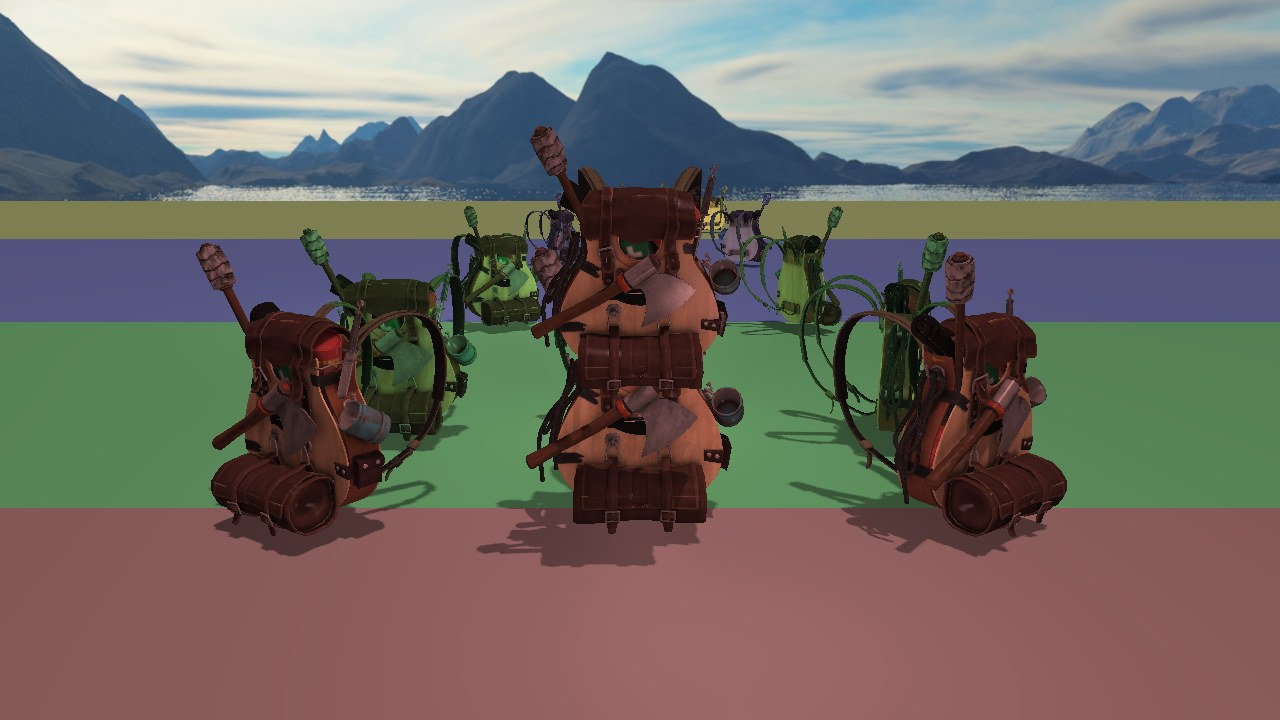
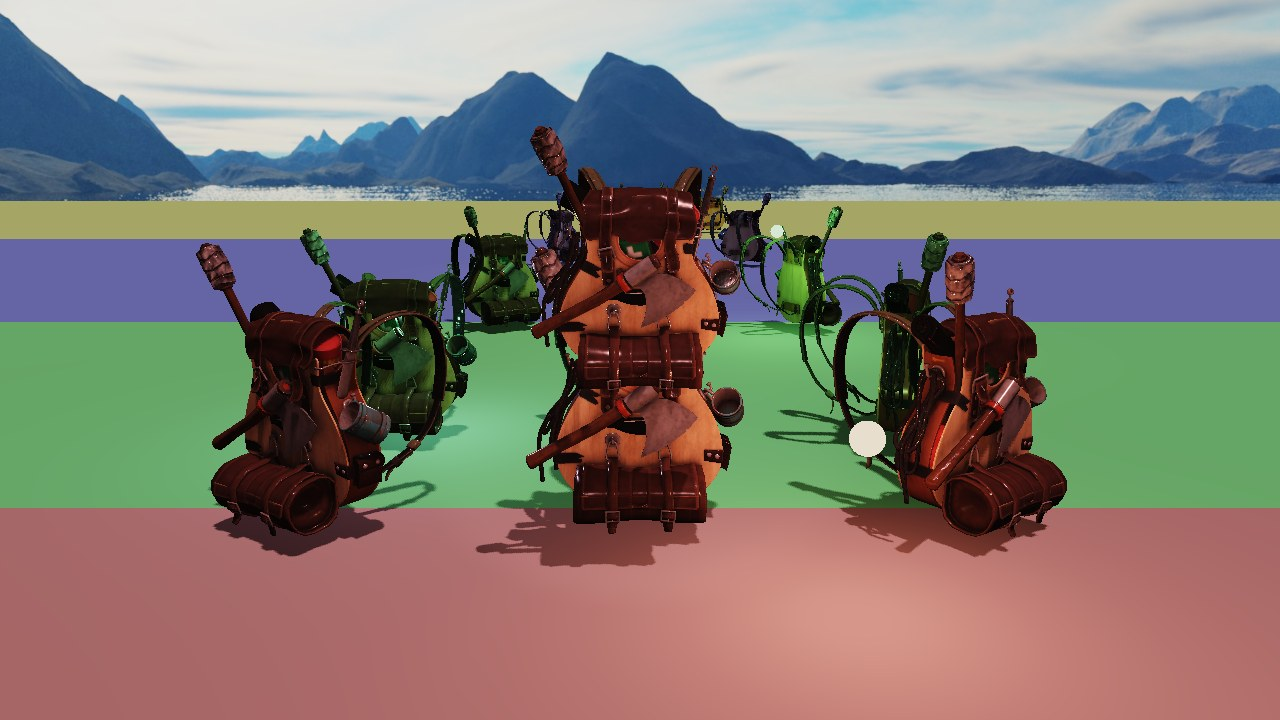
Added notes on physically based shading and new screenshots.

diff --git a/docs/pbr.md b/docs/pbr.md
@@ -1,0 +1,144 @@
+# Physically based shading
+
+How surfaces are lit: the metallic-roughness material model, the BRDF, the
+conversion of older formats, and tone mapping.
+
+Code: `src/rendering/Material.*`, `res/shaders/common/brdf.glsl`,
+`forward_shader.frag`, `ResourceManager::loadMaterial` and `screen.frag`.
+
+## 1. Why change from Blinn-Phong
+
+Blinn-Phong has a diffuse color, a specular color and a shininess exponent,
+three knobs with no physical meaning. Nothing stops a surface from reflecting
+more light than it receives, and a material tuned under one light looks wrong
+under another.
+
+Physically based shading describes what the surface *is* rather than how it
+should look, and derives the look from a model of light reflection that
+conserves energy. The same material then behaves correctly under the sun, a
+torch or a dim ambient. It is also the model used by every modern asset
+format and tool (glTF, Substance, Blender, game engines), so assets come in
+with the right parameters.
+
+## 2. The material: metallic-roughness
+
+The glTF 2.0 model, stored in `Material`:
+
+| Parameter | Meaning | Map |
+|---|---|---|
+| albedo | Base color: diffuse color of dielectrics, reflection tint of metals | sRGB RGB, alpha for cut-outs |
+| metallic | 0 for dielectrics (wood, stone, cloth, paint), 1 for bare metal | B channel of the packed map |
+| roughness | 0 is a mirror, 1 is fully blurry reflections | G channel of the packed map |
+| normal | Surface detail | tangent space normal map |
+| occlusion | Crevices that ambient light does not reach | R channel |
+| emissive | Light the surface emits on its own | sRGB RGB |
+
+Each map is multiplied by a factor, and a missing map is a neutral 1x1
+texture, so the factors alone are a valid material.
+
+**Dielectrics and metals** reflect light in very different ways:
+
+- A dielectric reflects about 4% of the light at normal incidence, with no
+  tint, and scatters the rest under its surface, which gives the diffuse
+  color.
+- A metal absorbs whatever is not reflected: it has no diffuse at all, and its
+  reflection is tinted by the albedo (gold reflects yellow).
+
+The shader turns the parameters into the two quantities the lighting needs:
+
+```glsl
+s.diffuseColor = albedo * (1.0 - metallic);            // metals: none
+s.f0 = mix(vec3(0.08 * specular), albedo, metallic);   // reflectance
+```
+
+`f0` is the reflectance at normal incidence. `specular` defaults to 0.5,
+giving the 4% of common dielectrics.
+
+## 3. The BRDF
+
+The BRDF (bidirectional reflectance distribution function) tells how much of
+the light arriving from one direction leaves towards the viewer. The model
+used is Cook-Torrance, which treats the surface as a field of tiny mirrors,
+the microfacets:
+
+```
+specular = D * V * F
+diffuse  = (1 - F) * diffuseColor / PI
+outgoing = (diffuse + specular) * radiance * NdotL
+```
+
+- **D, the distribution** (GGX): the proportion of microfacets oriented to
+  reflect the light towards the viewer, i.e. facing the half vector between
+  the two. Rough surfaces spread them out: wide, dim highlights. Smooth
+  surfaces align them: small, sharp highlights.
+- **V, the visibility** (height-correlated Smith): microfacets shadow and hide
+  each other at grazing angles. It also includes the normalization of the
+  microfacet model.
+- **F, Fresnel** (Schlick): reflection grows towards 100% at grazing angles,
+  for every material. It is why a lake reflects the sky far away but not at
+  your feet.
+
+The diffuse term is Lambert, divided by PI so that a white surface never
+sends back more light than it received. It only receives what the specular
+lobe did not reflect (`1 - F`).
+
+Roughness is squared before use (`alpha = roughness^2`): artists' roughness
+is perceptually linear, the lobes are not.
+
+**Units.** Because of the division by PI, a light of intensity PI on a white
+surface facing it gives an outgoing value of 1. The default intensities are
+about PI times those of the Blinn-Phong version.
+
+## 4. Ambient light
+
+Real ambient light comes from the whole environment and is the job of image
+based lighting, not implemented yet. Until then the ambient term is a
+hemisphere light: the sun's ambient color from above, fading to 30% of it
+from below. It keeps surfaces out of the sun readable, since their brightness
+still depends on their orientation.
+
+It is weakest on metals: they reflect the environment, and there is no
+environment yet. A smooth metal with no light in its reflection direction is
+nearly black, which is physically right for this lighting and the main reason
+image based lighting is the next step.
+
+## 5. Converting older formats
+
+OBJ and other Phong-based formats have no metallic or roughness. The loader
+converts:
+
+| Phong | Metallic-roughness |
+|---|---|
+| `Kd` (diffuse color) | albedo, when there is no diffuse map |
+| `map_Ks` or `Ks` | `specular` (dielectric reflectance) |
+| `Ns` (exponent) | roughness = sqrt(2 / (Ns + 2)), clamped to [0.2, 1] |
+| `Ke`, `map_Ke` | emissive |
+| metallic | always 0 |
+
+The roughness formula gives a GGX lobe about as wide as the Blinn-Phong one
+of that exponent. The clamp avoids the mirror-like surfaces that very high
+exponents written by exporters would produce.
+
+glTF files are detected by the metallic factor Assimp sets for them, and use
+their parameters directly, including the alpha mode (`OPAQUE` ignores alpha,
+`MASK` uses the cutoff, `BLEND` is approximated with a cutoff).
+
+## 6. Tone mapping
+
+Lighting is computed in linear HDR values into a 16-bit float target. A sunny
+surface can be well above 1, a shadowed one far below. The screen needs
+[0, 1], and simply clamping turns every bright area into flat white.
+
+The post-process pass:
+
+1. Multiplies by the exposure, `2^stops`, like a camera.
+2. Applies a fit of the ACES filmic curve: nearly linear in the dark and
+   midtones, then a soft shoulder that compresses highlights instead of
+   clipping them.
+3. Encodes to sRGB with a 2.2 gamma.
+
+## 7. Checking materials
+
+The debug panel, or `--debug-view <name>`, replaces the lit image with one
+channel: albedo, normals, metallic, roughness, occlusion or emissive. These
+views skip exposure and tone mapping to show the raw values.

diff --git a/README.md b/README.md
@@ -7,13 +7,14 @@ to implement rendering techniques from scratch.
 
 ## Features
 
-- Forward Blinn-Phong lighting: a sun plus up to 64 point and 16 spot lights,
-  all ECS entities with a range
+- Physically based shading: metallic-roughness materials (glTF), GGX BRDF,
+  ACES tone mapping, with OBJ materials converted on import
+- A sun plus up to 64 point and 16 spot lights, all ECS entities with a range
 - Cascaded shadow maps for the sun: 4 cascades rendered in one pass with
   geometry shader instancing, per-cascade culling, stabilized against
   shimmering, filtered with 3x3 PCF
 - Uniform buffers for per-frame data, direct state access, frustum culling
-- Normal mapping, alpha-tested foliage (shadows included)
+- Normal, occlusion and emissive maps, alpha-tested foliage (shadows included)
 - sRGB-correct pipeline: HDR color target, gamma correction in post-process
 - Model loading through Assimp (OBJ, glTF, FBX...), textures cached and shared
 - Entity-component scene built on EnTT, cube map skybox
@@ -24,8 +25,12 @@ to implement rendering techniques from scratch.
 |---|---|
 | ![Cascades](docs/images/cascades.jpg) | ![Sponza](docs/images/sponza.jpg) |
 
-How the shadows work is described in [docs/cascaded-shadow-maps.md](docs/cascaded-shadow-maps.md),
-and how C++ and the shaders share data in [docs/shader-interface.md](docs/shader-interface.md).
+![Damaged Helmet](docs/images/helmet.jpg)
+
+Notes on the techniques:
+[cascaded shadow maps](docs/cascaded-shadow-maps.md),
+[physically based shading](docs/pbr.md) and
+[how C++ and the shaders share data](docs/shader-interface.md).
 
 ## Building
 
@@ -45,7 +50,11 @@ and `res/` from any working directory.
 Models are not versioned. The default scene uses the
 [LearnOpenGL backpack](https://learnopengl.com/Model-Loading/Model), extracted
 into `res/models/backpack/`. Sponza and other test scenes come from
-[McGuire's Computer Graphics Archive](https://casual-effects.com/data/).
+[McGuire's Computer Graphics Archive](https://casual-effects.com/data/), glTF
+test models from the
+[Khronos glTF Sample Assets](https://github.com/KhronosGroup/glTF-Sample-Assets)
+(use the `glTF` folder of a model, embedded `.glb` textures are not supported
+yet).
 
 ## Usage
 
@@ -69,7 +78,8 @@ Any model can be opened directly:
 ```
 
 `--screenshot out.png` renders a few frames, saves them and quits, which is
-how the images above were made.
+how the images above were made. `--debug-view roughness` (or albedo,
+normals, metallic, occlusion, emissive) shows a single material channel.
 
 ## Code layout
 
@@ -91,3 +101,10 @@ target, then a post-process pass to the window.
 ## Next
 
 See [TODO.md](TODO.md).
+
+## Credits
+
+Damaged Helmet by theblueturtle_
+([CC BY-NC 4.0](https://creativecommons.org/licenses/by-nc/4.0/)), glTF
+conversion by ctxwing
+([CC BY 4.0](https://creativecommons.org/licenses/by/4.0/)).

diff --git a/TODO.md b/TODO.md
@@ -1,7 +1,8 @@
 ## Rendering
 - [x] Directional light cascaded shadow maps
 - [x] OpenGL 4.5, uniform buffers, ECS lights with a range, frustum culling
-- [ ] PBR materials and tone mapping
+- [x] PBR materials and tone mapping
+- [ ] Image based lighting (irradiance and prefiltered environment maps)
 - [ ] Spot light shadows, point light shadow atlas
 - [ ] Clustered light culling (compute)
 - [ ] Volumetric fog (froxels)
